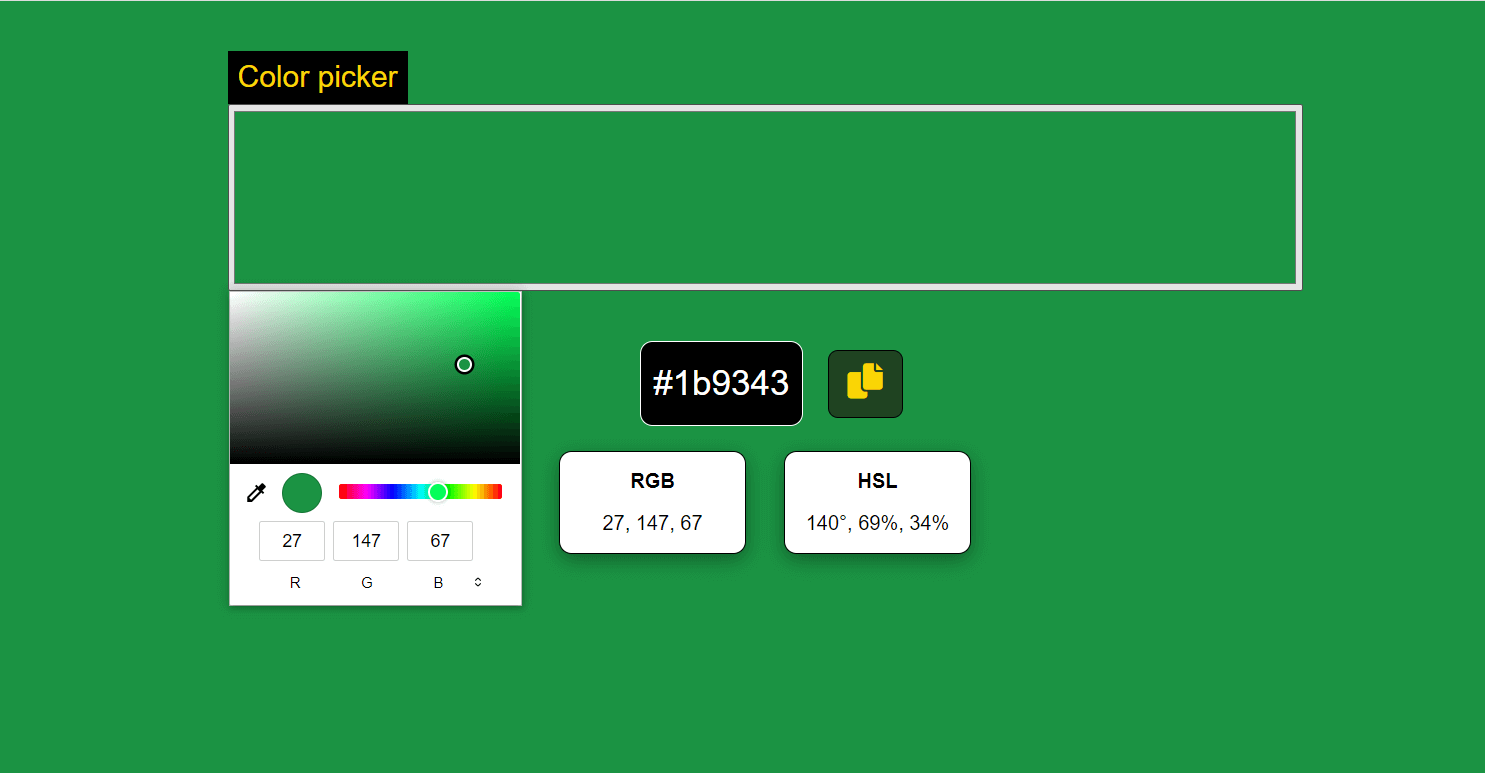
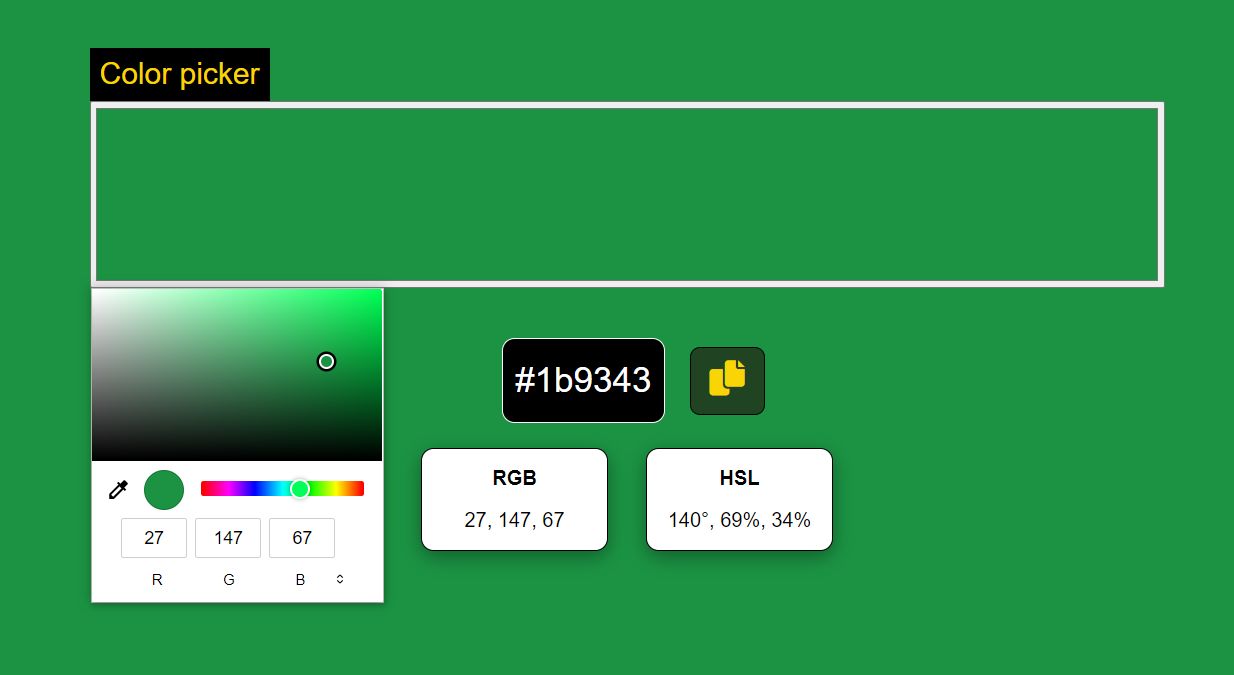
Change color-picker and travel pages title name and change object-fit project image color picker

Changed region(s): [[0.0616, 0.0622, 0.9546, 0.9022]]

diff --git a/index.html b/index.html
@@ -95,7 +95,7 @@
 
                 <!-- Color-picker -->
                 <li class="project__item contact">
-                    <img class="project__img" src="img/color.png" alt="Color picker">
+                    <img class="project__img project__img--color" src="img/color.png" alt="Color picker">
                     <h3 class="project__heading">Color picker</h3>
                     <p class="project__about">Color picker - Ranglar palitirasidan rang tanlash va uni nusxalab olishga yordam beradi.</p>
                     <ul class="contact__list contact__list--project">

diff --git a/color.html b/color.html
@@ -4,7 +4,7 @@
     <meta charset="UTF-8">
     <meta http-equiv="X-UA-Compatible" content="IE=edge">
     <meta name="viewport" content="width=device-width, initial-scale=1.0">
-    <title>Portfolio / Keycode clone</title>
+    <title>Portfolio / Color picker</title>
     <!-- STYLES -->
     <link rel="stylesheet" href="css/normalize.css">
     <link rel="stylesheet" href="css/main.css">

diff --git a/travel.html b/travel.html
@@ -4,7 +4,7 @@
     <meta charset="UTF-8">
     <meta http-equiv="X-UA-Compatible" content="IE=edge">
     <meta name="viewport" content="width=device-width, initial-scale=1.0">
-    <title>Portfolio / Keycode clone</title>
+    <title>Portfolio / Travel</title>
     <!-- STYLES -->
     <link rel="stylesheet" href="css/normalize.css">
     <link rel="stylesheet" href="css/main.css">

diff --git a/css/main.css b/css/main.css
@@ -301,6 +301,10 @@ a {
     object-position: center top;
 }
 
+.project__img--color {
+    object-fit: unset;
+}
+
 .project__heading {
     font-size: 28px;
     font-weight: 700;
